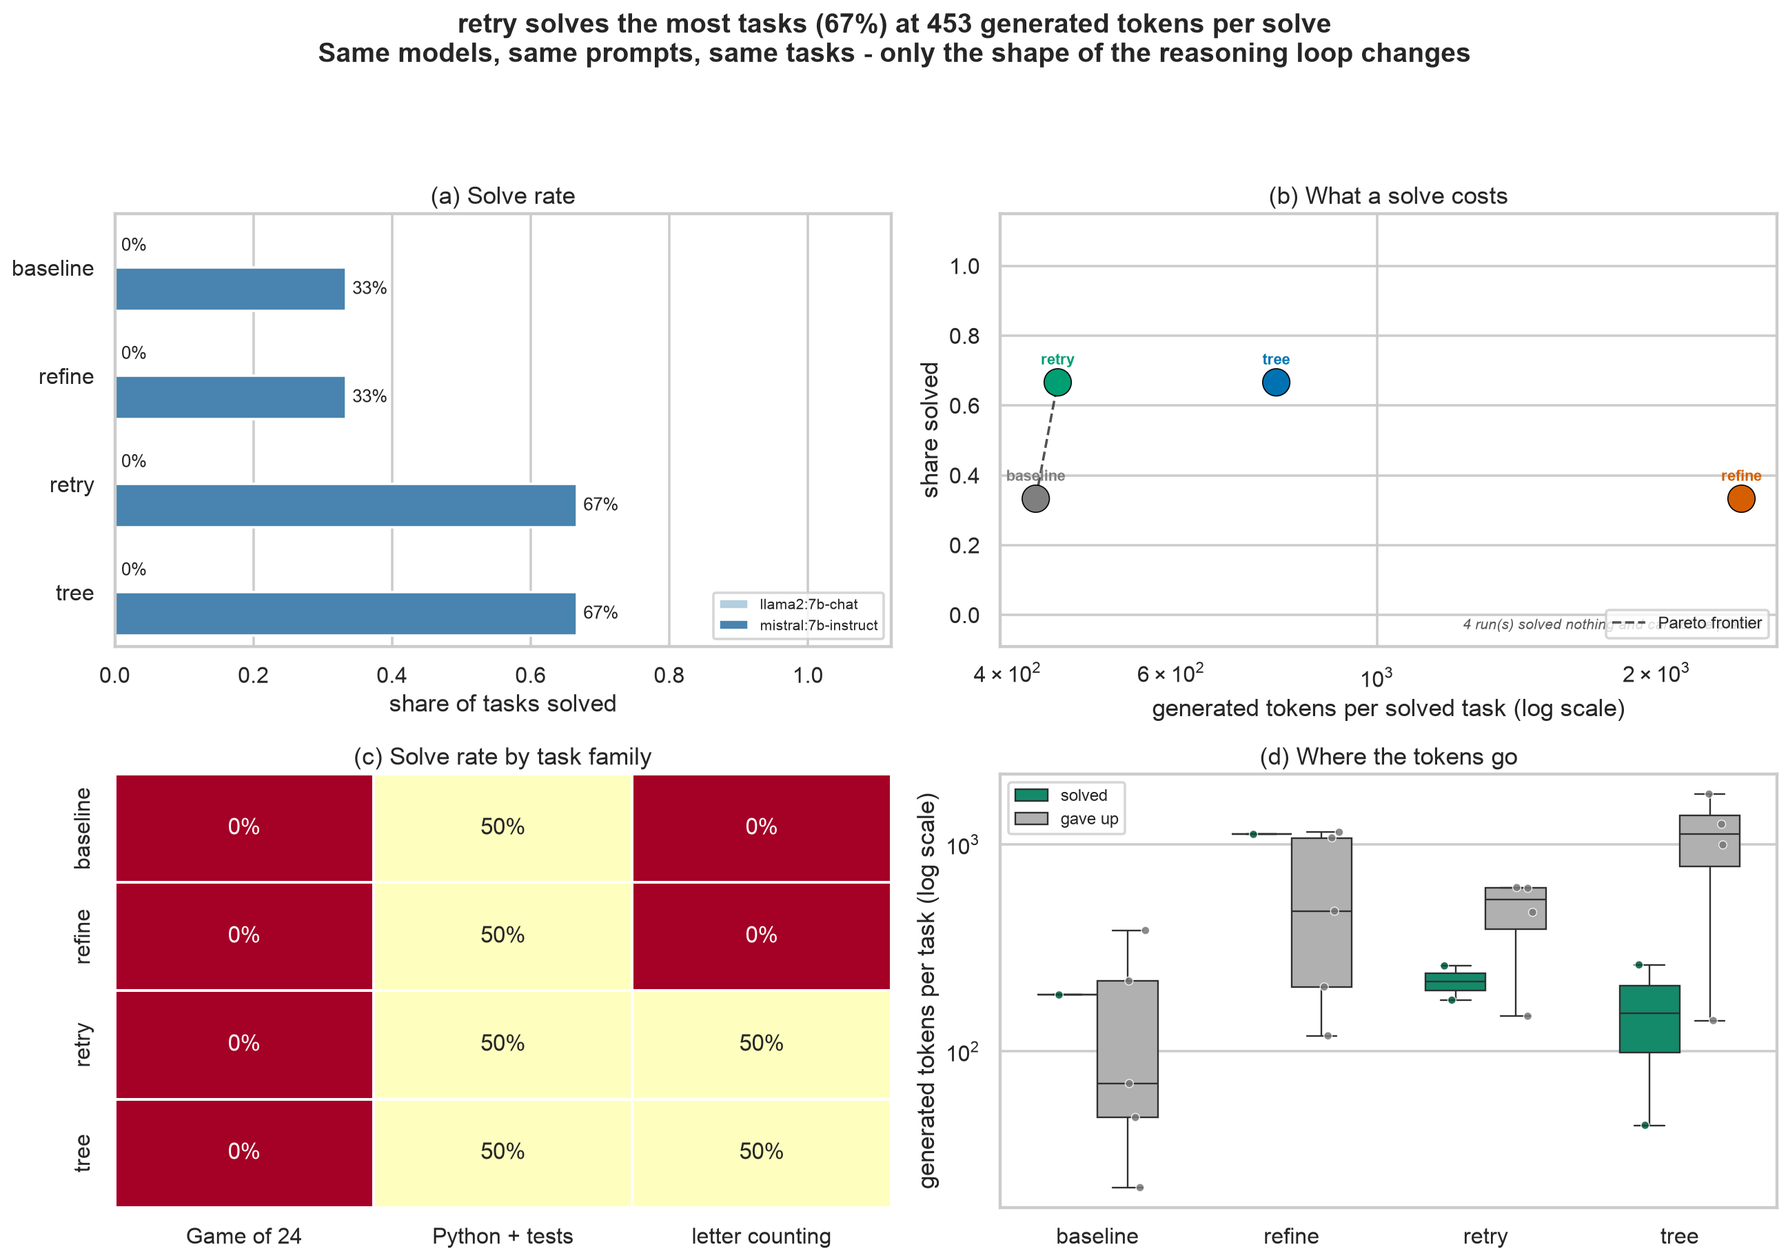
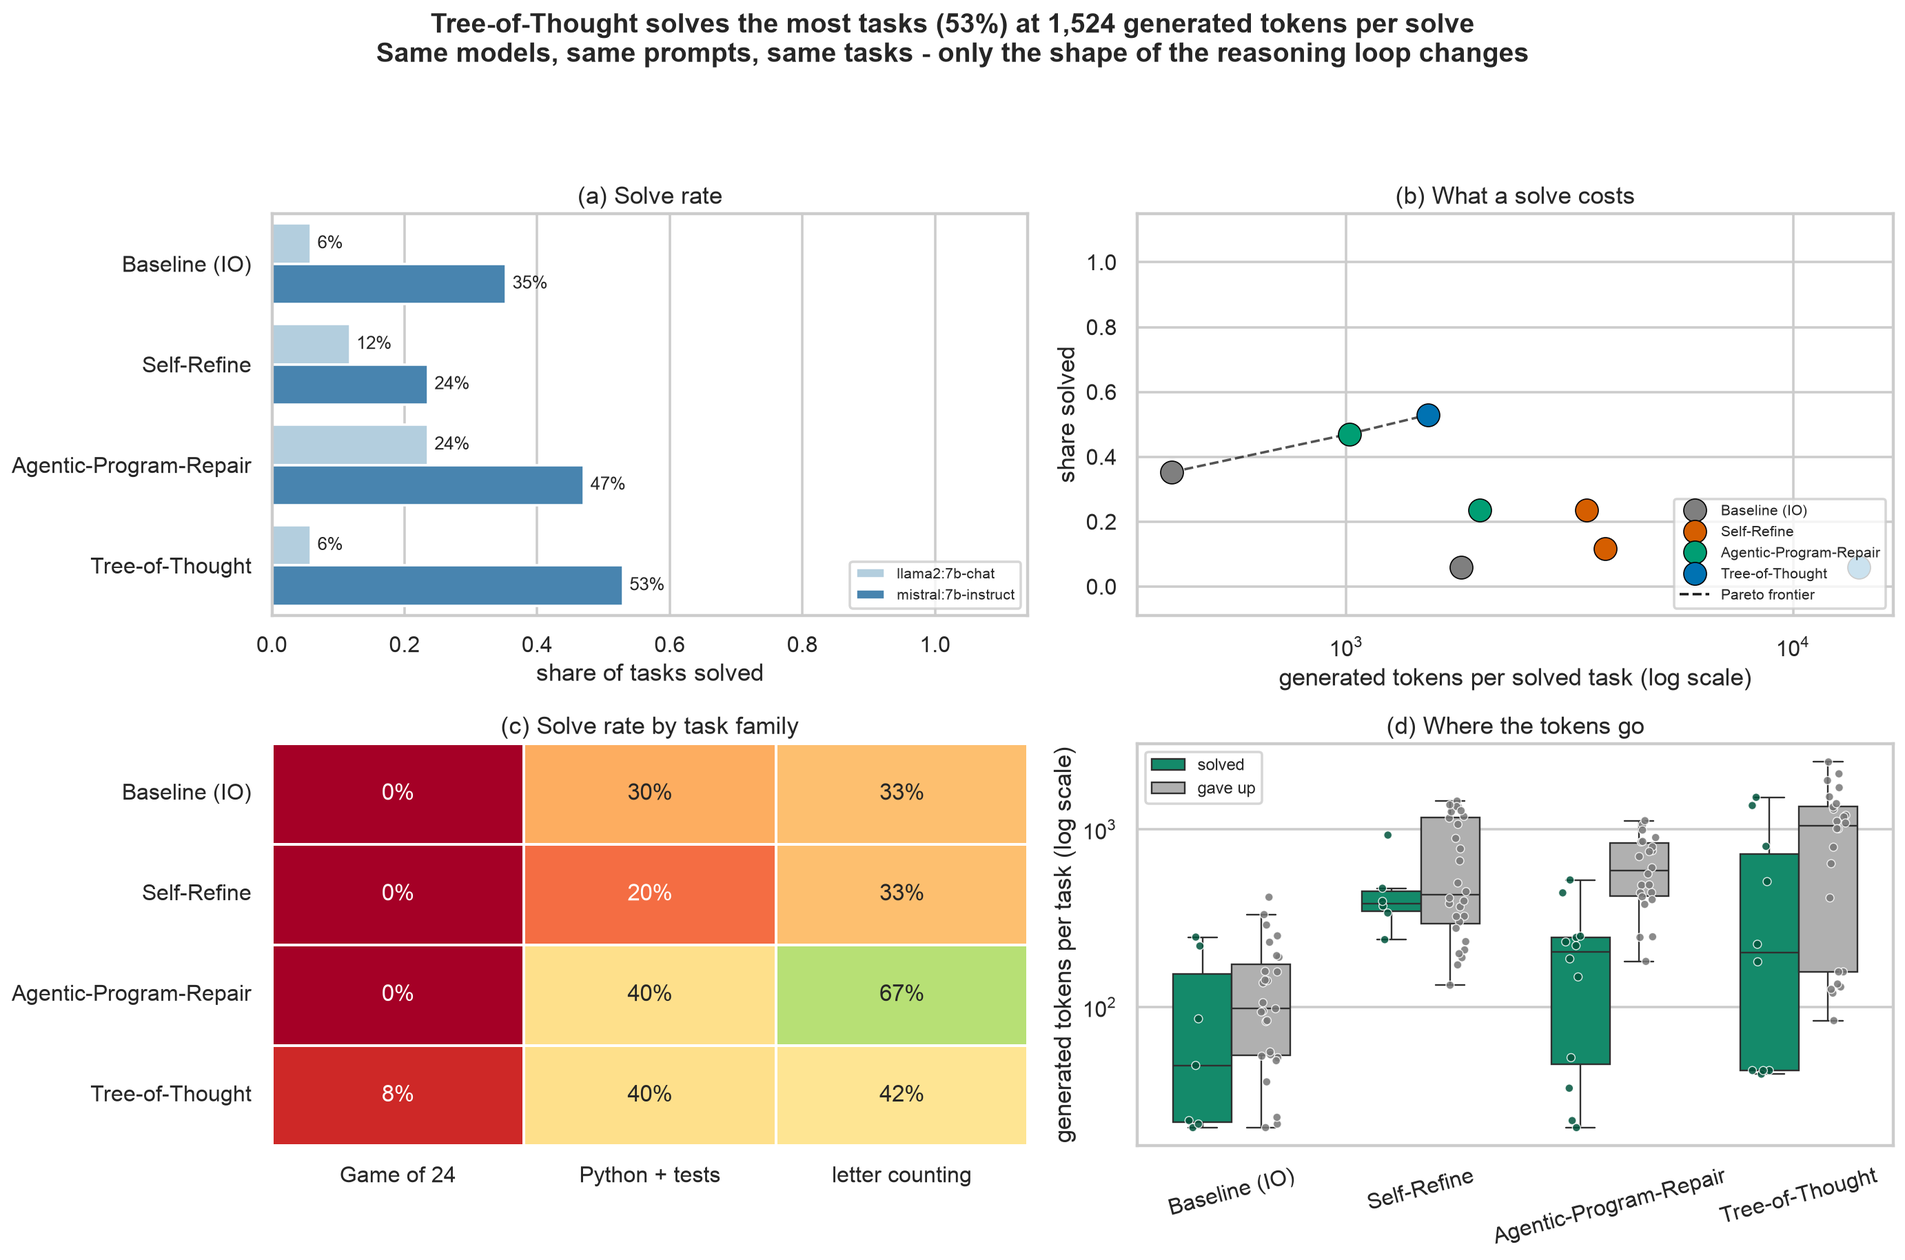
Adopt paper naming (Baseline (IO)/Self-Refine/Tree-of-Thought/Agentic-Program-Repair); add GPU results and markdown tables

diff --git a/plot.py b/plot.py
@@ -21,6 +21,9 @@ import pandas as pd  # noqa: E402
 import seaborn as sns  # noqa: E402
 
 METHODS = ["baseline", "refine", "retry", "tree"]
+# Display names used on every axis, label, and table in this project.
+NAMES = {"baseline": "Baseline (IO)", "refine": "Self-Refine",
+         "retry": "Agentic-Program-Repair", "tree": "Tree-of-Thought"}
 PALETTE = {"baseline": "#7f7f7f", "refine": "#D55E00", "retry": "#009E73", "tree": "#0072B2"}
 COST = {"tokens": ("gen_tokens_per_solve", "generated tokens"),
         "seconds": ("seconds_per_solve", "wall-clock seconds")}
@@ -30,6 +33,7 @@ FAMILY = [("math", "Game of 24"), ("program", "Python + tests"), ("writing", "le
 def load(path):
     df = pd.DataFrame(json.load(open(path)))
     df["solved"] = df["solved"].astype(bool)
+    df["label"] = df["method"].map(NAMES)
     return df
 
 
@@ -42,6 +46,7 @@ def summary(df):
     for col in ("gen_tokens", "seconds"):
         g[f"{col}_per_solve"] = [t / s if s else float("nan")
                                  for t, s in zip(g[col], g["solved"])]
+    g["label"] = g["method"].map(NAMES)
     return g
 
 
@@ -59,39 +64,40 @@ def headline(g):
     best = g.sort_values(["rate", "gen_tokens_per_solve"], ascending=[False, True]).iloc[0]
     rate, tok = best["rate"], best["gen_tokens_per_solve"]
     if pd.isna(tok):
-        return f"{best['method']} solves the most tasks, but nothing was solved cheaply"
-    return (f"{best['method']} solves the most tasks ({rate:.0%}) "
+        return f"{best['label']} solves the most tasks, but nothing was solved cheaply"
+    return (f"{best['label']} solves the most tasks ({rate:.0%}) "
             f"at {tok:,.0f} generated tokens per solve")
 
 
 def panels(df, g, metric, out):
     sns.set_theme(style="whitegrid", context="talk", font_scale=0.82)
-    fig, ax = plt.subplots(2, 2, figsize=(15.5, 11))
+    fig, ax = plt.subplots(2, 2, figsize=(16.5, 11))
     xcol, xlabel = COST[metric]
     plot = g.dropna(subset=[xcol])
+    labels = [NAMES[m] for m in METHODS]
 
     # (a) headline: who solves more
     a = ax[0, 0]
-    sns.barplot(g, x="rate", y="method", hue="model", order=METHODS, ax=a,
+    sns.barplot(g, x="rate", y="label", hue="model", order=labels, ax=a,
                 palette="Blues", errorbar=None)
     for c in a.containers:
         a.bar_label(c, fmt=lambda v: f"{v:.0%}", padding=4, fontsize=11)
-    a.set(xlabel="share of tasks solved", ylabel="", xlim=(0, 1.12), title="(a) Solve rate")
+    a.set(xlabel="share of tasks solved", ylabel="", xlim=(0, 1.14), title="(a) Solve rate")
     a.legend(title="", loc="lower right", fontsize=9)
 
     # (b) the trade: quality bought with compute
     b = ax[0, 1]
-    sns.scatterplot(plot, x=xcol, y="rate", hue="method", style="model", s=280, ax=b,
-                    palette=PALETTE, hue_order=METHODS, legend=False,
-                    edgecolor="black", linewidth=.7, zorder=3)
+    for m in METHODS:
+        sub = plot[plot["method"] == m]
+        if not len(sub):
+            continue
+        b.plot(sub[xcol], sub["rate"], "o", color=PALETTE[m], markersize=14, zorder=3,
+               markeredgecolor="black", markeredgewidth=.7, label=NAMES[m])
     front = pareto(g, xcol)
     if len(front) > 1:
-        b.plot(front[xcol], front["rate"], "k--", lw=1.5, alpha=.75, zorder=2,
-               label="Pareto frontier")
-        b.legend(fontsize=10, loc="lower right", frameon=True)
-    for _, r in plot.iterrows():
-        b.annotate(r["method"], (r[xcol], r["rate"]), xytext=(0, 11), textcoords="offset points",
-                   ha="center", fontsize=9.5, fontweight="bold", color=PALETTE[r["method"]])
+        b.plot(front[xcol], front["rate"], "k--", lw=1.5, alpha=.75, zorder=2)
+        b.plot([], [], "k--", lw=1.5, label="Pareto frontier")
+    b.legend(fontsize=9, loc="lower right", frameon=True, title="", title_fontsize=9)
     dropped = len(g) - len(plot)
     b.set(xscale="log", xlabel=f"{xlabel} per solved task (log scale)", ylabel="share solved",
           ylim=(-.09, 1.15), title="(b) What a solve costs")
@@ -102,8 +108,8 @@ def panels(df, g, metric, out):
     # (c) where each method stands per task family
     c = ax[1, 0]
     order = [k for k, _ in FAMILY if k in set(df["kind"])]
-    fam = df.pivot_table(index="method", columns="kind", values="solved", aggfunc="mean")
-    fam = fam.reindex([m for m in METHODS if m in fam.index])[order]
+    fam = df.pivot_table(index="label", columns="kind", values="solved", aggfunc="mean")
+    fam = fam.reindex([n for n in labels if n in fam.index])[order]
     sns.heatmap(fam, annot=True, fmt=".0%", cmap="RdYlGn", vmin=0, vmax=1, ax=c,
                 cbar=False, linewidths=1.5, linecolor="white", annot_kws={"fontsize": 14})
     c.set_xticklabels([dict(FAMILY)[k] for k in order], rotation=0)
@@ -112,17 +118,21 @@ def panels(df, g, metric, out):
     # (d) do the extra tokens land on solves or on dead ends?
     d = ax[1, 1]
     box = df[df["gen_tokens"] > 0].copy()
-    box["solved_"] = box["solved"].map({True: "solved", False: "gave up"})
+    box["outcome"] = box["solved"].map({True: "solved", False: "gave up"})
     with warnings.catch_warnings():  # seaborn sets a non-positive xlim on log axes; harmless
         warnings.simplefilter("ignore")
-        sns.boxplot(box, x="method", y="gen_tokens", hue="solved_", order=METHODS, ax=d,
-                    hue_order=["solved", "gave up"], palette={"solved": "#009E73", "gave up": "#B0B0B0"},
+        sns.boxplot(box, x="label", y="gen_tokens", hue="outcome", order=labels, ax=d,
+                    hue_order=["solved", "gave up"],
+                    palette={"solved": "#009E73", "gave up": "#B0B0B0"},
                     width=.62, fliersize=0, linewidth=1)
-        sns.stripplot(box, x="method", y="gen_tokens", hue="solved_", order=METHODS, ax=d,
-                      hue_order=["solved", "gave up"], palette={"solved": "#00543C", "gave up": "#777777"},
+        sns.stripplot(box, x="label", y="gen_tokens", hue="outcome", order=labels, ax=d,
+                      hue_order=["solved", "gave up"],
+                      palette={"solved": "#00543C", "gave up": "#777777"},
                       dodge=True, size=5, alpha=.85, legend=False, edgecolor="white", linewidth=.6)
         d.set_yscale("log")
-    d.set(xlabel="", ylabel="generated tokens per task (log scale)", title="(d) Where the tokens go")
+    d.set(xlabel="", ylabel="generated tokens per task (log scale)",
+          title="(d) Where the tokens go")
+    d.tick_params(axis="x", labelrotation=15)
     handles = [h for h in d.get_legend().legend_handles] if d.get_legend() else []
     d.legend(handles[:2], ["solved", "gave up"], title="", fontsize=10, loc="upper left")
 
@@ -134,18 +144,84 @@ def panels(df, g, metric, out):
     return plot
 
 
+def table(df, g):
+    """Print the two tables that carry the argument: solve rate, then cost per solve."""
+    per = g.pivot_table(index="label", columns="model", values="rate", aggfunc="sum")
+    per = per.reindex([n for n in (NAMES[m] for m in METHODS) if n in per.index])
+    per["overall"] = df.groupby("label")["solved"].mean().reindex(per.index)
+    print("\n=== solve rate ===")
+    print(per.map(lambda v: f"{v:.0%}" if pd.notna(v) else "-").to_string())
+
+    print("\n=== cost per solved task (generated tokens) ===")
+    cost = g.pivot_table(index="label", columns="model", values="gen_tokens_per_solve")
+    cost = cost.reindex([n for n in (NAMES[m] for m in METHODS) if n in cost.index])
+    tot = g.groupby("label").agg(tok=("gen_tokens", "sum"), ok=("solved", "sum"),
+                                 sec=("seconds", "sum"), runs=("runs", "sum"))
+    cost["overall"] = tot["tok"] / tot["ok"]
+    out = pd.concat([cost.round(0),
+                     pd.DataFrame({"calls/run": (g.groupby("label")["calls"].sum() / tot["runs"]).round(1),
+                                   "sec/run": (tot["sec"] / tot["runs"]).round(1)})], axis=1)
+    print(out.to_string(na_rep="not solved"))
+
+
+def markdown(df, g, path):
+    """Write the two headline tables as markdown, for slides, the README, or the demo notes."""
+    order = [NAMES[m] for m in METHODS if NAMES[m] in set(g["label"])]
+    lines = ["<!-- generated by: uv run plot.py --results results-full.json --tables TABLES.md -->", ""]
+
+    lines += ["### Solve rate", "", "| Method | " + " | ".join(sorted(df["model"].unique()))
+              + " | Overall |", "|---|" + "---|" * (df["model"].nunique() + 1)]
+    for name in order:
+        row = [f"{g[(g.label == name) & (g.model == m)]['rate'].mean():.0%}"
+               for m in sorted(df["model"].unique())]
+        lines.append(f"| {name} | " + " | ".join(row)
+                     + f" | {df[df.label == name]['solved'].mean():.0%} |")
+
+    lines += ["", "### Cost per solved task (generated tokens)", "",
+              "| Method | " + " | ".join(sorted(df["model"].unique()))
+              + " | Overall | Calls/run | Sec/run |", "|---|" + "---|" * (df["model"].nunique() + 3)]
+    for name in order:
+        cells = []
+        for m in sorted(df["model"].unique()):
+            r = g[(g.label == name) & (g.model == m)]
+            v = r["gen_tokens_per_solve"].iloc[0]
+            cells.append("not solved" if pd.isna(v) else f"{v:,.0f}")
+        sub = df[df.label == name]
+        ok = sub["solved"].sum()
+        lines.append(f"| {name} | " + " | ".join(cells)
+                     + f" | {(sub['gen_tokens'].sum() / ok if ok else float('nan')):,.0f} "
+                     + f"| {sub['calls'].mean():.1f} | {sub['seconds'].mean():.1f} |")
+
+    lines += ["", "### Solve rate by task family", "",
+              "| Method | " + " | ".join(n for _, n in FAMILY) + " |",
+              "|---|" + "---|" * len(FAMILY)]
+    for name in order:
+        sub = df[df.label == name]
+        lines.append(f"| {name} | " + " | ".join(
+            f"{sub[sub.kind == k]['solved'].mean():.0%}" for k, _ in FAMILY) + " |")
+
+    with open(path, "w") as f:
+        f.write("\n".join(lines) + "\n")
+    print(f"\nwrote {path}")
+
+
 def main():
     ap = argparse.ArgumentParser()
     ap.add_argument("--results", default="results.json")
     ap.add_argument("--metric", default="tokens", choices=list(COST))
     ap.add_argument("--out", default="comparison.png")
+    ap.add_argument("--tables", metavar="TABLES.md", help="also write the tables as markdown")
+    ap.add_argument("--no-figure", action="store_true", help="tables only")
     a = ap.parse_args()
     df = load(a.results)
     g = summary(df)
-    panels(df, g, a.metric, a.out)
-    cols = ["method", "model", "runs", "solved", "rate", "gen_tokens", "gen_tokens_per_solve",
-            "seconds", "calls"]
-    print(g[cols].to_string(index=False, float_format=lambda v: f"{v:,.1f}"))
+    if not a.no_figure:
+        panels(df, g, a.metric, a.out)
+    else:
+        print(f"\n=== solve rate ===")
+    table(df, g)
+    if a.tables:
+        markdown(df, g, a.tables)
 
 
 if __name__ == "__main__":

diff --git a/run.py b/run.py
@@ -13,6 +13,7 @@ from collections import defaultdict
 from concurrent.futures import ThreadPoolExecutor
 
 import methods
+from plot import NAMES
 from tasks import TASKS
 
 TEMPLATE = "llama2:7b-chat mistral:7b-instruct"
@@ -127,7 +128,7 @@ def main():
             rows.append(r)
             done += 1
             tail = (r["answer"].strip().splitlines() or [""])[-1][:56]
-            print(f"[{done:3}/{len(work)}] {r['model']:22} {r['method']:9} {r['task']:26} "
+            print(f"[{done:3}/{len(work)}] {r['model']:22} {NAMES[r['method']]:24} {r['task']:26} "
                   f"{'PASS' if r['solved'] else 'fail':4} {r['calls']:2} calls "
                   f"{r['gen_tokens']:5} gen-tok {r['seconds']:6.1f}s  {tail}")
             if a.show:
@@ -138,7 +139,7 @@ def main():
     if a.answers:
         with open(a.answers, "w") as f:
             for r in rows:
-                f.write(f"### {r['model']} | {r['method']} | {r['task']} | "
+                f.write(f"### {r['model']} | {NAMES[r['method']]} | {r['task']} | "
                         f"{'PASS' if r['solved'] else 'fail'} | {r['gen_tokens']} gen-tokens\n"
                         f"{r['answer']}\n\n")
     report(rows, a.steps, a.models)
@@ -147,7 +148,7 @@ def main():
 
 def report(rows, steps, models):
     print("\n=== solve rate (pass / total) ===")
-    head = "method    " + "".join(f"{m.split(':')[0][:14]:>16}" for m in models) + "     overall"
+    head = f"{'method':24}" + "".join(f"{m.split(':')[0][:14]:>16}" for m in models) + "     overall"
     print(head)
     for s in steps:
         cells = ""
@@ -155,7 +156,7 @@ def report(rows, steps, models):
             rs = [r for r in rows if r["method"] == s and r["model"] == m]
             cells += f"{sum(r['solved'] for r in rs)}/{len(rs):<14}"
         rs = [r for r in rows if r["method"] == s]
-        print(f"{s:10}" + cells + f"  {sum(r['solved'] for r in rs)}/{len(rs)}")
+        print(f"{NAMES[s]:24}" + cells + f"  {sum(r['solved'] for r in rs)}/{len(rs)}")
 
     print("\n=== cost per solved task (generated tokens, all runs) ===")
     print(f"{'method':10}{'solved':>8}{'gen-tok/run':>13}{'gen-tok/solved':>16}{'sec/run':>10}{'calls/run':>11}")
@@ -163,7 +164,7 @@ def report(rows, steps, models):
         rs = [r for r in rows if r["method"] == s]
         ok = sum(r["solved"] for r in rs)
         gen = sum(r["gen_tokens"] for r in rs)
-        print(f"{s:10}{ok:>8}{gen / len(rs):>13.0f}{(gen / ok if ok else float('inf')):>16.0f}"
+        print(f"{NAMES[s]:24}{ok:>8}{gen / len(rs):>13.0f}{(gen / ok if ok else float('inf')):>16.0f}"
               f"{sum(r['seconds'] for r in rs) / len(rs):>10.1f}"
               f"{sum(r['calls'] for r in rs) / len(rs):>11.1f}")
 
@@ -176,7 +177,7 @@ def report(rows, steps, models):
         c[2] += r["gen_tokens"]
         c[3] += r["seconds"]
     for (s, k), (ok, tot, gen, sec) in sorted(fam.items()):
-        print(f"  {s:10}{k:9}{ok}/{tot:<5}tokens/run {gen / tot:6.0f}   sec/run {sec / tot:5.1f}")
+        print(f"  {NAMES[s]:24}{k:9}{ok}/{tot:<5}tokens/run {gen / tot:6.0f}   sec/run {sec / tot:5.1f}")
 
     print("\n=== mean generated tokens, split by outcome ===")
     for s in steps:
@@ -184,7 +185,7 @@ def report(rows, steps, models):
         win = [r["gen_tokens"] for r in rs if r["solved"]]
         lose = [r["gen_tokens"] for r in rs if not r["solved"]]
         f = lambda v: f"{sum(v) / len(v):.0f}" if v else "-"      # noqa: E731
-        print(f"  {s:10} solved {f(win):>7}   unsolved {f(lose):>7}")
+        print(f"  {NAMES[s]:24} solved {f(win):>7}   unsolved {f(lose):>7}")
 
 
 if __name__ == "__main__":

diff --git a/README.md b/README.md
@@ -338,35 +338,49 @@ distribution split by whether the task was solved. Panel (b) is the one that car
   `retry --candidates 3`, so total attempts are roughly matched. `tree` also gets a hard
   `--max-calls` budget, which is why it stops after ~7 calls instead of exploding combinatorially.
 
-## Reference run (2 × 7B models, 3 tasks, 24 runs, M2 laptop, 42 min)
+## Main run (2 × 7B models, 19 tasks, 136 runs, 2 × RTX PRO 6000 Blackwell, ~20 min)
 
-Six runs per method (2 models × 3 tasks). Re-print this table straight from the committed results:
+The full task set: 6 × Game of 24, 5 × Python-with-tests, 6 × letter counting, per model per method.
 
 ```bash
-uv run run.py --summary results.json --models llama2:7b-chat mistral:7b-instruct
+CUDA_VISIBLE_DEVICES=0,1 OLLAMA_NUM_PARALLEL=4 OLLAMA_KEEP_ALIVE=30m uv run run.py \
+  --models llama2:7b-chat mistral:7b-instruct --steps baseline refine retry tree \
+  --n 6 --jobs 6 --out results-full.json --answers answers-full.md
+uv run plot.py --results results-full.json --out comparison.png --tables TABLES.md
 ```
 
-| method | solved | gen-tokens/run | calls/run | sec/run | gen-tokens per **solved** |
-|---|---|---|---|---|---|
-| baseline | 1/6 | 155 | 1.0 | 9.5 | 931 |
-| refine | 1/6 | 690 | 6.2 | 216 | 4141 |
-| retry | **2/6** | 381 | 2.5 | 31 | **1144** |
-| tree | 2/6 | 741 | 7.2 | 163 | 2222 |
+| Method | llama2:7b-chat | mistral:7b-instruct | Overall | tokens/solve | calls/run | sec/run |
+|---|---|---|---|---|---|---|
+| Baseline (IO) | 6% | 35% | 21% | 606 | 1.0 | 2.1 |
+| Self-Refine | 12% | 24% | 18% | 3,567 | 5.7 | 10.0 |
+| Agentic-Program-Repair | 24% | 47% | **35%** | **1,340** | 2.5 | 6.1 |
+| Tree-of-Thought | 6% | **53%** | 29% | 2,776 | 6.9 | 11.2 |
 
-Solve rate by family: programming `retry` 1/2 and `tree` 1/2; writing `retry` 1/2 and `tree` 1/2;
-math 0/2 for everything. Llama-2 7B chat scored 0/3 on all four methods; every point came from Mistral.
+| Method | Game of 24 | Python + tests | letter counting |
+|---|---|---|---|
+| Baseline (IO) | 0% | 30% | 33% |
+| Self-Refine | 0% | 20% | 33% |
+| Agentic-Program-Repair | 0% | 40% | **67%** |
+| Tree-of-Thought | **8%** | 40% | 42% |
 
-The story these numbers tell, in three beats:
+What this run says, and where it differs from the laptop:
 
-1. **The verifier is what pays, not the tree.** `retry` (independent attempts, tests decide) matched
-   `tree` on solve rate for about half the generated tokens and a fifth of the wall-clock time.
-2. **Self-critique is the weakest feedback available.** `refine` was both the most expensive method
-   and no better than one shot. Mistral's critique loop happily "confirmed" a strawberry count of 2
-   seven times in a row; the model cannot see its own error, and the loop just amplifies confidence.
-3. **Search needs a scoreable intermediate.** Math has an exact feasibility check; every method still
-   failed it, and `tree` spent the most tokens doing so. Programming has no partial-credit signal, so
-   `tree`'s pruning was mostly guesswork — exactly why the APR paper retries with test feedback
-   instead of searching a patch tree.
+1. **Tree-of-Thought is the best method on a capable model and the worst value on a weak one.**
+   It wins outright on Mistral (53% vs 47%) and collapses on Llama-2 (6%, *below* one-shot). Its
+   cost per solve differs 9x between the two models (14,045 vs 1,524 tokens) for the same code and
+   prompts — so ToT's payoff tracks how often the base model can actually produce a good thought.
+2. **Agentic-Program-Repair wins on aggregate** (35%) at 1,340 tokens per solve, less than half of
+   Self-Refine's 3,567. Retries plus an exact verifier is the best quality-per-token on every family
+   except pure math.
+3. **Self-Refine loses to one-shot on both models** (18% vs 21%). Linear self-critique, at 5.7x the
+   calls and 5.9x the tokens, produced no net gain — the model's critique is only as good as the
+   model.
+4. **Game of 24 is out of reach for 7B models.** 71 of 72 attempts failed; ToT's single success is
+   the only one. Verified it is not a format artifact: an unlabeled-answer scan found zero correct
+   solutions rejected for missing the `Answer:` line.
+
+Method naming follows the papers: Baseline (IO) = plain input-output prompting, Self-Refine
+(Madaan et al. 2023), Agentic-Program-Repair (Maddila et al. 2025), Tree-of-Thought (Yao et al. 2023).
 
 A demo moment worth pausing on: `mistral` + `tree` on Game of 24 produced
 `Answer: ((1 * 6) + (1 - 4)) * 6 = 24`, which is 18, not 24 — stated confidently, as a final answer,

diff --git a/TABLES.md b/TABLES.md
@@ -1,0 +1,28 @@
+<!-- generated by: uv run plot.py --results results-full.json --tables TABLES.md -->
+
+### Solve rate
+
+| Method | llama2:7b-chat | mistral:7b-instruct | Overall |
+|---|---|---|---|
+| Baseline (IO) | 6% | 35% | 21% |
+| Self-Refine | 12% | 24% | 18% |
+| Agentic-Program-Repair | 24% | 47% | 35% |
+| Tree-of-Thought | 6% | 53% | 29% |
+
+### Cost per solved task (generated tokens)
+
+| Method | llama2:7b-chat | mistral:7b-instruct | Overall | Calls/run | Sec/run |
+|---|---|---|---|---|---|
+| Baseline (IO) | 1,804 | 406 | 606 | 1.0 | 2.1 |
+| Self-Refine | 3,800 | 3,451 | 3,567 | 5.7 | 10.0 |
+| Agentic-Program-Repair | 1,991 | 1,015 | 1,340 | 2.5 | 6.1 |
+| Tree-of-Thought | 14,045 | 1,524 | 2,776 | 6.9 | 11.2 |
+
+### Solve rate by task family
+
+| Method | Game of 24 | Python + tests | letter counting |
+|---|---|---|---|
+| Baseline (IO) | 0% | 30% | 33% |
+| Self-Refine | 0% | 20% | 33% |
+| Agentic-Program-Repair | 0% | 40% | 67% |
+| Tree-of-Thought | 8% | 40% | 42% |
